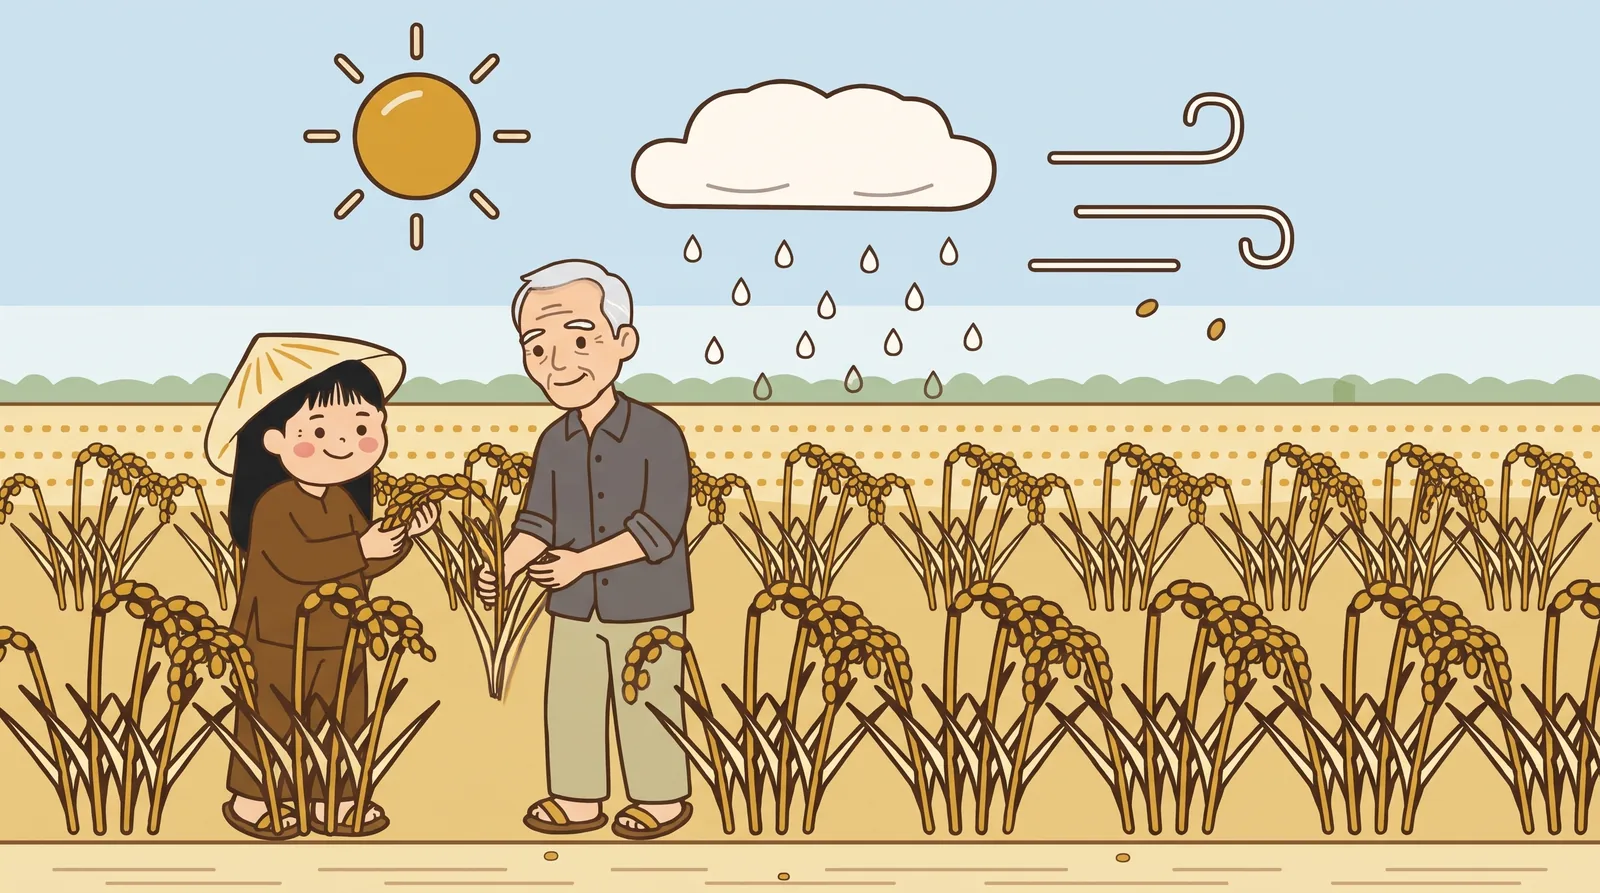
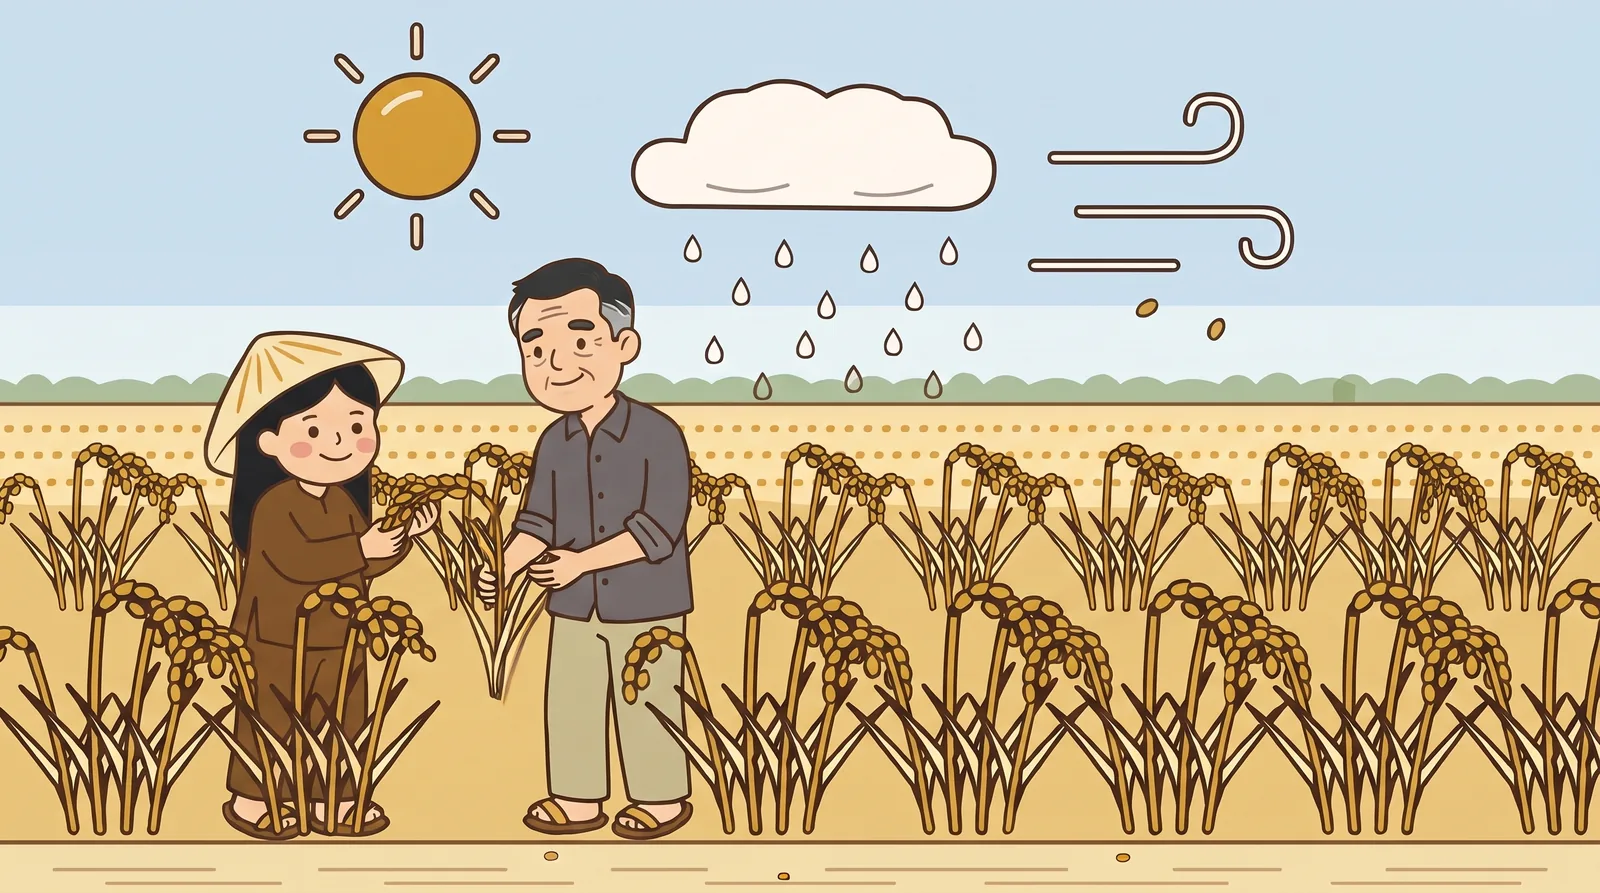
brand: journey sketches, father with fuller face and salt-and-pepper hair

diff --git a/docs/session/log/2026-11-05-may-desktop-hanh-trinh-manhua.md b/docs/session/log/2026-11-05-may-desktop-hanh-trinh-manhua.md
@@ -8,6 +8,7 @@
 - Xem 9 tranh manhua, chủ dự án: "nhìn ảnh chi tiết quá, đơn sơ mộc mạc như hiện tại" → bỏ kiểu manhua cho hành trình; giữ phong cách phẳng, đơn sơ của các cảnh hiện tại, chỉ sửa theo các góp ý ở trên.
 - Chủ dự án gửi ảnh ba và anh 2 (ảnh riêng, không vào repo, không gửi lên dịch vụ vẽ) → vẽ ba: khoảng 65–70 tuổi, gầy, tóc ngắn bạc gần hết, mặt gầy xương gò má cao; anh 2: khoảng 40 tuổi, tóc đen ngắn, mặt tròn, người đầy đặn.
 - Chủ dự án: giữ phong cách phẳng "để sau này còn làm chuyển động" → cảnh cuối phải là SVG tách lớp như hiện tại (người, quạt, mây, trời tách riêng). Ảnh Nano Banana chỉ là bản phác để duyệt bố cục; sau khi duyệt, dựng lại bằng SVG (sửa cảnh trong `brand/story/scenes/`, trace người mới bằng `vectorize-pose.py`).
+- Xem bản phác bước 2 và 4, chủ dự án: "ba mặt đầy đặn hơn xíu, tóc không bạc quá" → ba: mặt đầy đặn hơn, ít nếp nhăn, tóc muối tiêu (đen nhiều hơn bạc).
 
 ## Quyết định
 - Không dùng tranh manhua cho hành trình (chủ dự án thấy chi tiết quá). Các cảnh mới vẽ theo phong cách phẳng hiện tại, chờ chủ dự án duyệt.
@@ -19,3 +20,6 @@
 
 ## Đã làm
 - Vẽ 9 tranh (8 bước, bước 2 có ngày và đêm), vẽ lại tranh gặt một lần vì tranh đầu có chữ "BA", "ANH HAI" và chữ trên máy gặt. Tổng 10 ảnh Pro, khoảng 1,35 USD.
+- Phác phong cách phẳng (sửa từ cảnh hiện tại) cho bước 2 (ngày) và bước 4, lưu `brand/story/phac/` (commit `1ceed66`). Mẹ ở bước 2 trông như bé gái, ba trông già hơn ảnh (khoảng 80 tuổi). Thêm 2 ảnh Pro, khoảng 0,27 USD.
+- Sửa ba ở bước 2 và 4: tóc muối tiêu, mặt đầy hơn một chút. Mẹ ở bước 2 vẫn như bé gái (lần sửa không đổi được). Thêm 2 ảnh, khoảng 0,27 USD.
+- Chủ dự án hỏi "không làm style manhua hả" → giải thích: hành trình theo kiểu phẳng để làm chuyển động; manhua dùng cho tranh phần Câu chuyện; có thể làm kiểu phẳng với nét mực. Chờ chủ dự án chọn.
